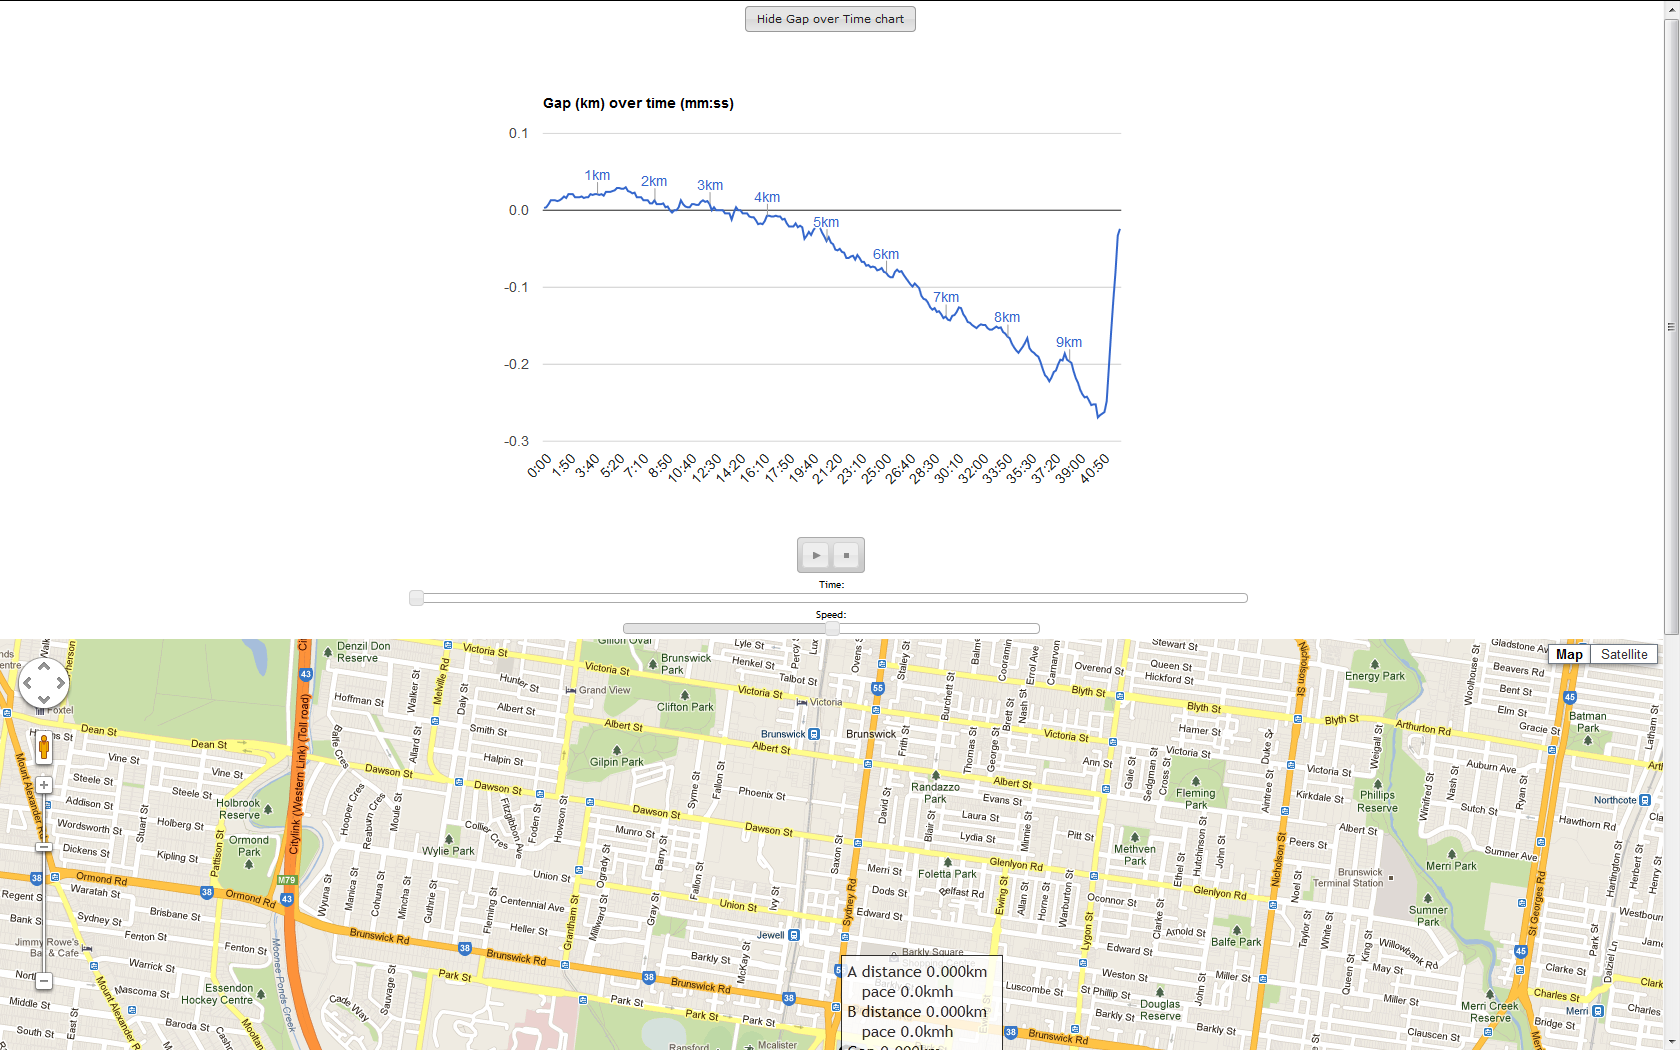
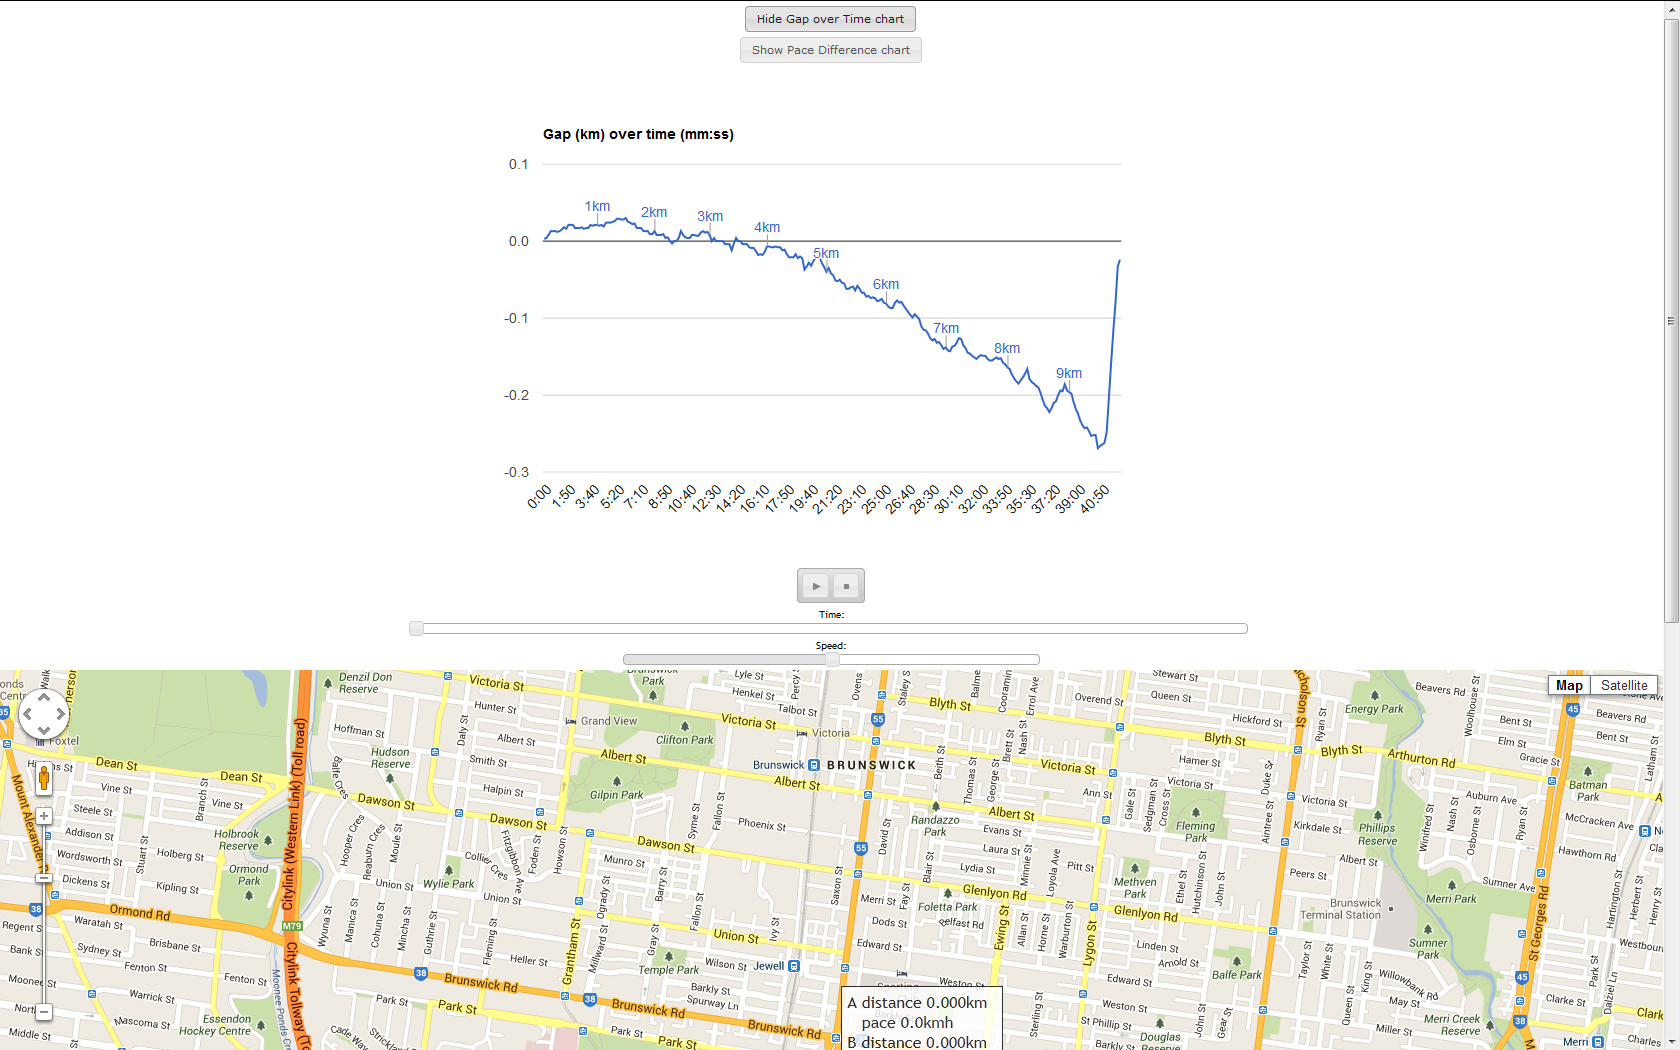
updated examples

diff --git a/example/2013-04-28_Sri_Chinmoy_Princes_Park_10km.html b/example/2013-04-28_Sri_Chinmoy_Princes_Park_10km.html
@@ -110,7 +110,8 @@
 	  var neutral = '&#x25AC;';
 	  var downArrow = '<font color="red">&#x25BC;</font>';
 	  var lastGap = 0;
-	  var chart = null;
+	  var gapOverTimeChart = null;
+	  var paceDifferenceChart = null;
 	  var lats1 = [ -37.78051558881998,-37.78054705448449,-37.78057852014899,-37.7806099858135,-37.780641451478004,-37.78067291714251,-37.780709189828485,-37.78074546251446,-37.780781735200435,-37.78081800788641,-37.780858274549246,
 		-37.78089854121208,-37.78093880787492,-37.780979074537754,-37.78101934120059,-37.78105850145221,-37.781097661703825,-37.78113682195544,-37.78117598220706,-37.78121514245868,-37.781252291053534,
 		-37.78128943964839,-37.781326588243246,-37.7813637368381,-37.78140088543296,-37.78143974393606,-37.781478602439165,-37.78151746094227,-37.78155631944537,-37.781595177948475,-37.781633684411645,
@@ -2398,7 +2399,7 @@
 			{
 				$(this).button('option','label','Hide Gap over Time chart');
 				$('#gapChart').css('position','relative').css('left','0px');
-				if (chart == null)
+				if (gapOverTimeChart == null)
 			    {
                    var data = new google.visualization.DataTable();
                    data.addColumn('string', 'Time');
@@ -2406,9 +2407,9 @@
                    data.addColumn({type:'string', role:'annotation'});
                    data.addColumn({type:'string', role:'annotationText'});
                    data.addRows([
-                     ['0:00', 0.003, null, null],
-	['0:10', 0.004, null, null],
-	['0:20', 0.008, null, null],
+                     ['0:00', 0.0030, null, null],
+	['0:10', 0.0040, null, null],
+	['0:20', 0.0080, null, null],
 	['0:30', 0.013, null, null],
 	['0:40', 0.013, null, null],
 	['0:50', 0.013, null, null],
@@ -2454,66 +2455,66 @@
 	['7:20', 0.013, null, null],
 	['7:30', 0.013, null, null],
 	['7:40', 0.013, null, null],
-	['7:50', 0.009, null, null],
-	['8:00', 0.009, null, null],
+	['7:50', 0.0090, null, null],
+	['8:00', 0.0090, null, null],
 	['8:01', 0.013, '2km', 'Gap: 0.013'],
-	['8:10', 0.008, null, null],
-	['8:20', 0.008, null, null],
-	['8:30', 0.008, null, null],
-	['8:40', 0.009, null, null],
-	['8:50', 0.004, null, null],
-	['9:00', 0.005, null, null],
+	['8:10', 0.0080, null, null],
+	['8:20', 0.0080, null, null],
+	['8:30', 0.0080, null, null],
+	['8:40', 0.0090, null, null],
+	['8:50', 0.0040, null, null],
+	['9:00', 0.0050, null, null],
 	['9:10', -0.0, null, null],
-	['9:20', -0.003, null, null],
+	['9:20', -0.0030, null, null],
 	['9:30', -0.0, null, null],
 	['9:40', -0.0, null, null],
-	['9:50', 0.004, null, null],
+	['9:50', 0.0040, null, null],
 	['10:00', 0.013, null, null],
-	['10:10', 0.008, null, null],
-	['10:20', 0.005, null, null],
-	['10:30', 0.004, null, null],
-	['10:40', 0.004, null, null],
-	['10:50', 0.008, null, null],
-	['11:00', 0.008, null, null],
-	['11:10', 0.007, null, null],
-	['11:20', 0.007, null, null],
+	['10:10', 0.0080, null, null],
+	['10:20', 0.0050, null, null],
+	['10:30', 0.0040, null, null],
+	['10:40', 0.0040, null, null],
+	['10:50', 0.0080, null, null],
+	['11:00', 0.0080, null, null],
+	['11:10', 0.0070, null, null],
+	['11:20', 0.0070, null, null],
 	['11:30', 0.011, null, null],
 	['11:40', 0.013, null, null],
 	['11:50', 0.011, null, null],
 	['12:00', 0.012, null, null],
-	['12:10', 0.008, '3km', 'Gap: 0.008'],
+	['12:10', 0.0080, '3km', 'Gap: 0.0080'],
 	['12:20', -0.0, null, null],
-	['12:30', 0.004, null, null],
+	['12:30', 0.0040, null, null],
 	['12:40', -0.0, null, null],
 	['12:50', -0.0, null, null],
 	['13:00', -0.0, null, null],
 	['13:10', -0.0, null, null],
-	['13:20', -0.004, null, null],
-	['13:30', -0.004, null, null],
-	['13:40', -0.004, null, null],
+	['13:20', -0.0040, null, null],
+	['13:30', -0.0040, null, null],
+	['13:40', -0.0040, null, null],
 	['13:50', -0.012, null, null],
-	['14:00', -0.003, null, null],
-	['14:10', 0.004, null, null],
+	['14:00', -0.0030, null, null],
+	['14:10', 0.0040, null, null],
 	['14:20', -0.0, null, null],
 	['14:30', -0.0, null, null],
-	['14:40', -0.004, null, null],
-	['14:50', -0.004, null, null],
-	['15:00', -0.004, null, null],
-	['15:10', -0.008, null, null],
-	['15:20', -0.009, null, null],
-	['15:30', -0.009, null, null],
+	['14:40', -0.0040, null, null],
+	['14:50', -0.0040, null, null],
+	['15:00', -0.0040, null, null],
+	['15:10', -0.0080, null, null],
+	['15:20', -0.0090, null, null],
+	['15:30', -0.0090, null, null],
 	['15:40', -0.013, null, null],
 	['15:50', -0.018, null, null],
 	['16:00', -0.017, null, null],
 	['16:10', -0.018, null, null],
 	['16:20', -0.014, null, null],
-	['16:26', -0.007, '4km', 'Gap: -0.007'],
-	['16:30', -0.007, null, null],
-	['16:40', -0.008, null, null],
-	['16:50', -0.008, null, null],
-	['17:00', -0.007, null, null],
-	['17:10', -0.008, null, null],
-	['17:20', -0.008, null, null],
+	['16:26', -0.0070, '4km', 'Gap: -0.0070'],
+	['16:30', -0.0070, null, null],
+	['16:40', -0.0080, null, null],
+	['16:50', -0.0080, null, null],
+	['17:00', -0.0070, null, null],
+	['17:10', -0.0080, null, null],
+	['17:20', -0.0080, null, null],
 	['17:30', -0.012, null, null],
 	['17:40', -0.011, null, null],
 	['17:50', -0.017, null, null],
@@ -2673,14 +2674,145 @@
                      title: 'Gap (km) over time (mm:ss)', axisTitlesPosition: 'none', hAxis:{slantedTextAngle: 45},
                      legend:{position: 'none'}, vAxis:{title: 'Gap'}
                    };
-                   chart = new google.visualization.LineChart(document.getElementById('gapChart'));
-                   chart.draw(data, options);
+                   gapOverTimeChart = new google.visualization.LineChart(document.getElementById('gapChart'));
+                   gapOverTimeChart.draw(data, options);
 			    }
 			}
 			else
 			{
 				$(this).button('option','label','Show Gap over Time chart');
 				$('#gapChart').css('position','absolute').css('left','-100000px');
+			}
+		});
+		$('#paceDifferenceChartButton').button().click(function()
+		{
+			var label = $(this).button('option','label');
+			if (label == 'Show Pace Difference chart')
+			{
+				$(this).button('option','label','Hide Pace Difference chart');
+				$('#paceDifferenceChart').css('position','relative').css('left','0px');
+				if (paceDifferenceChart == null)
+			    {
+                   var data = new google.visualization.DataTable();
+                   data.addColumn('string', 'Distance');
+                   data.addColumn('number', 'A');
+                   data.addColumn({type:'boolean', role:'emphasis'});
+                   data.addColumn('number', 'B');
+                   data.addColumn({type:'boolean', role:'emphasis'});
+                   data.addRows([
+                     ['0.100', 15.3, true, 14.0, false],
+	['0.200', 15.3, true, 15.1, false],
+	['0.300', 14.8, true, 14.6, false],
+	['0.400', 15.8, true, 15.6, false],
+	['0.500', 15.2, true, 15.1, false],
+	['0.600', 14.2, false, 15.6, true],
+	['0.700', 15.4, false, 15.5, true],
+	['0.800', 15.1, false, 15.1, true],
+	['0.900', 15.0, true, 14.8, false],
+	['1.000', 15.1, false, 15.1, true],
+	['1.100', 14.8, false, 15.3, true],
+	['1.200', 13.9, false, 15.1, true],
+	['1.300', 12.3, false, 13.0, true],
+	['1.400', 15.1, true, 14.8, false],
+	['1.500', 14.5, false, 15.1, true],
+	['1.600', 14.1, false, 14.8, true],
+	['1.700', 15.1, false, 16.0, true],
+	['1.800', 15.1, false, 15.5, true],
+	['1.900', 14.7, false, 15.4, true],
+	['2.000', 15.3, false, 15.8, true],
+	['2.100', 15.2, true, 15.1, false],
+	['2.200', 15.2, false, 16.7, true],
+	['2.300', 14.2, false, 16.3, true],
+	['2.400', 12.9, false, 12.9, true],
+	['2.500', 16.7, true, 14.4, false],
+	['2.600', 15.4, true, 15.0, false],
+	['2.700', 14.5, true, 14.3, false],
+	['2.800', 12.9, false, 13.7, true],
+	['2.900', 13.7, false, 14.9, true],
+	['3.000', 13.1, false, 14.4, true],
+	['3.100', 13.2, false, 13.6, true],
+	['3.200', 14.8, false, 15.2, true],
+	['3.300', 15.2, false, 15.5, true],
+	['3.400', 13.6, false, 15.6, true],
+	['3.500', 12.2, false, 12.9, true],
+	['3.600', 13.9, false, 14.3, true],
+	['3.700', 14.8, false, 15.0, true],
+	['3.800', 15.3, false, 16.0, true],
+	['3.900', 15.9, false, 16.5, true],
+	['4.000', 10.5, false, 15.8, true],
+	['4.100', 12.1, false, 13.2, true],
+	['4.200', 12.8, true, 12.8, false],
+	['4.300', 13.2, false, 14.1, true],
+	['4.400', 14.8, false, 15.1, true],
+	['4.500', 15.4, true, 15.0, false],
+	['4.600', 11.9, false, 15.6, true],
+	['4.700', 15.4, false, 16.5, true],
+	['4.800', 16.6, true, 15.3, false],
+	['4.900', 12.3, true, 12.1, false],
+	['5.000', 13.6, false, 14.5, true],
+	['5.100', 12.6, false, 14.2, true],
+	['5.200', 13.6, false, 14.0, true],
+	['5.300', 13.1, false, 13.7, true],
+	['5.400', 15.0, true, 14.9, false],
+	['5.500', 14.4, true, 14.1, false],
+	['5.600', 14.3, true, 13.7, false],
+	['5.700', 14.2, false, 15.1, true],
+	['5.800', 14.6, false, 15.1, true],
+	['5.900', 15.4, true, 14.7, false],
+	['6.000', 12.8, false, 14.7, true],
+	['6.100', 14.6, false, 14.8, true],
+	['6.200', 13.5, false, 15.3, true],
+	['6.300', 13.2, true, 12.9, false],
+	['6.400', 13.1, false, 14.3, true],
+	['6.500', 13.1, false, 14.3, true],
+	['6.600', 14.0, true, 13.5, false],
+	['6.700', 13.4, false, 14.7, true],
+	['6.800', 14.3, false, 15.6, true],
+	['6.900', 13.9, false, 14.8, true],
+	['7.000', 14.5, false, 14.7, true],
+	['7.100', 14.8, true, 14.7, false],
+	['7.200', 14.7, false, 15.7, true],
+	['7.300', 12.1, false, 15.4, true],
+	['7.400', 14.3, true, 12.9, false],
+	['7.500', 14.2, false, 15.2, true],
+	['7.600', 14.1, false, 14.9, true],
+	['7.700', 12.9, false, 14.5, true],
+	['7.800', 13.4, false, 13.6, true],
+	['7.900', 13.2, false, 13.5, true],
+	['8.000', 12.4, false, 14.7, true],
+	['8.100', 12.5, false, 13.2, true],
+	['8.200', 14.2, true, 13.6, false],
+	['8.300', 13.8, false, 14.5, true],
+	['8.400', 11.6, false, 18.0, true],
+	['8.500', 13.5, true, 11.5, false],
+	['8.600', 12.6, false, 13.7, true],
+	['8.700', 13.7, false, 13.9, true],
+	['8.800', 14.9, false, 15.0, true],
+	['8.900', 14.8, false, 15.3, true],
+	['9.000', 11.9, false, 15.3, true],
+	['9.100', 12.0, false, 13.1, true],
+	['9.200', 13.7, true, 13.4, false],
+	['9.300', 14.8, false, 14.9, true],
+	['9.400', 14.9, false, 15.7, true],
+	['9.500', 16.0, true, 15.5, false],
+	['9.600', 17.1, true, 14.0, false],
+	['9.700', 15.3, false, 17.4, true],
+	['9.800', 13.8, false, 20.7, true],
+	['9.900', 15.9, true, 12.8, false],
+	['10.000', 15.9, true, 11.8, false]
+                   ]);
+                   var options = {
+                     title: 'Pace Difference', axisTitlesPosition: 'none', hAxis:{slantedTextAngle: 45},
+                     vAxis:{title: 'Pace'}
+                   };
+                   paceDifferenceChart = new google.visualization.LineChart(document.getElementById('paceDifferenceChart'));
+                   paceDifferenceChart.draw(data, options);
+			    }
+			}
+			else
+			{
+				$(this).button('option','label','Show Pace Difference chart');
+				$('#paceDifferenceChart').css('position','absolute').css('left','-100000px');
 			}
 		});
 	  }
@@ -2825,7 +2957,9 @@
   <body>
 	<div align="center" class="small-font" style="padding-top:5px; padding-bottom:5px">
 	<button style="margin-bottom:5px" id="gapChartButton">Show Gap over Time chart</button><br>
+	<button style="margin-bottom:5px" id="paceDifferenceChartButton">Show Pace Difference chart</button><br>
 	    <div id="gapChart" style="width: 900px; height: 500px; position: absolute; left: -10000px;"></div>
+	    <div id="paceDifferenceChart" style="width: 1400px; height: 500px; position: absolute; left: -10000px;"></div>
 		<div id="toolbar" class="ui-widget-header ui-corner-all" style="margin-bottom:5px">
 			<button id="play">play</button>
 			<button id="stop">stop</button>
